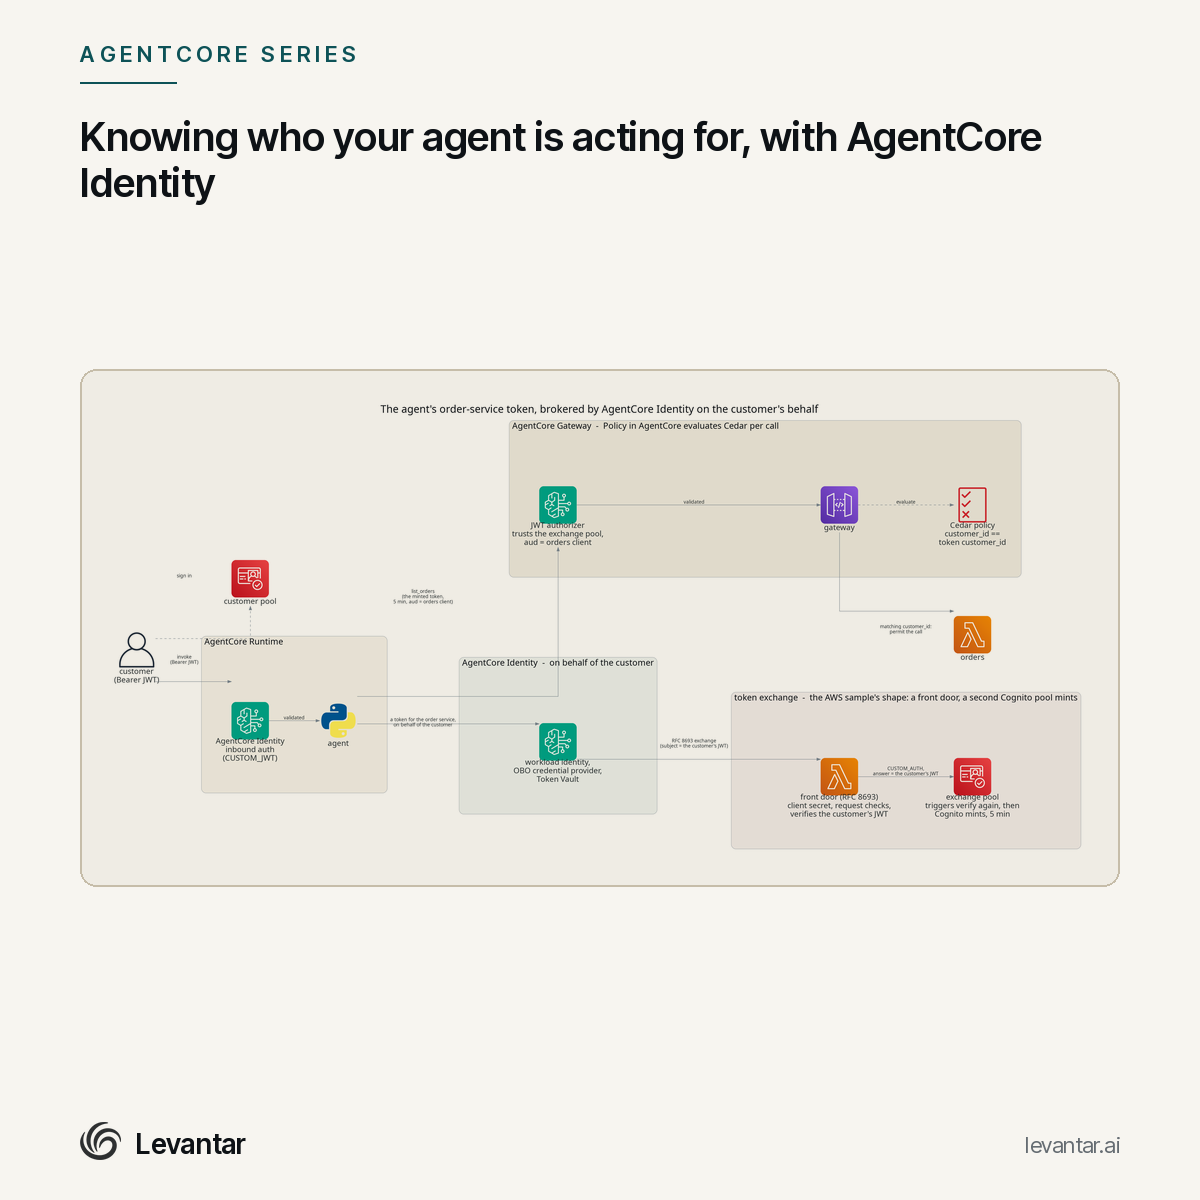
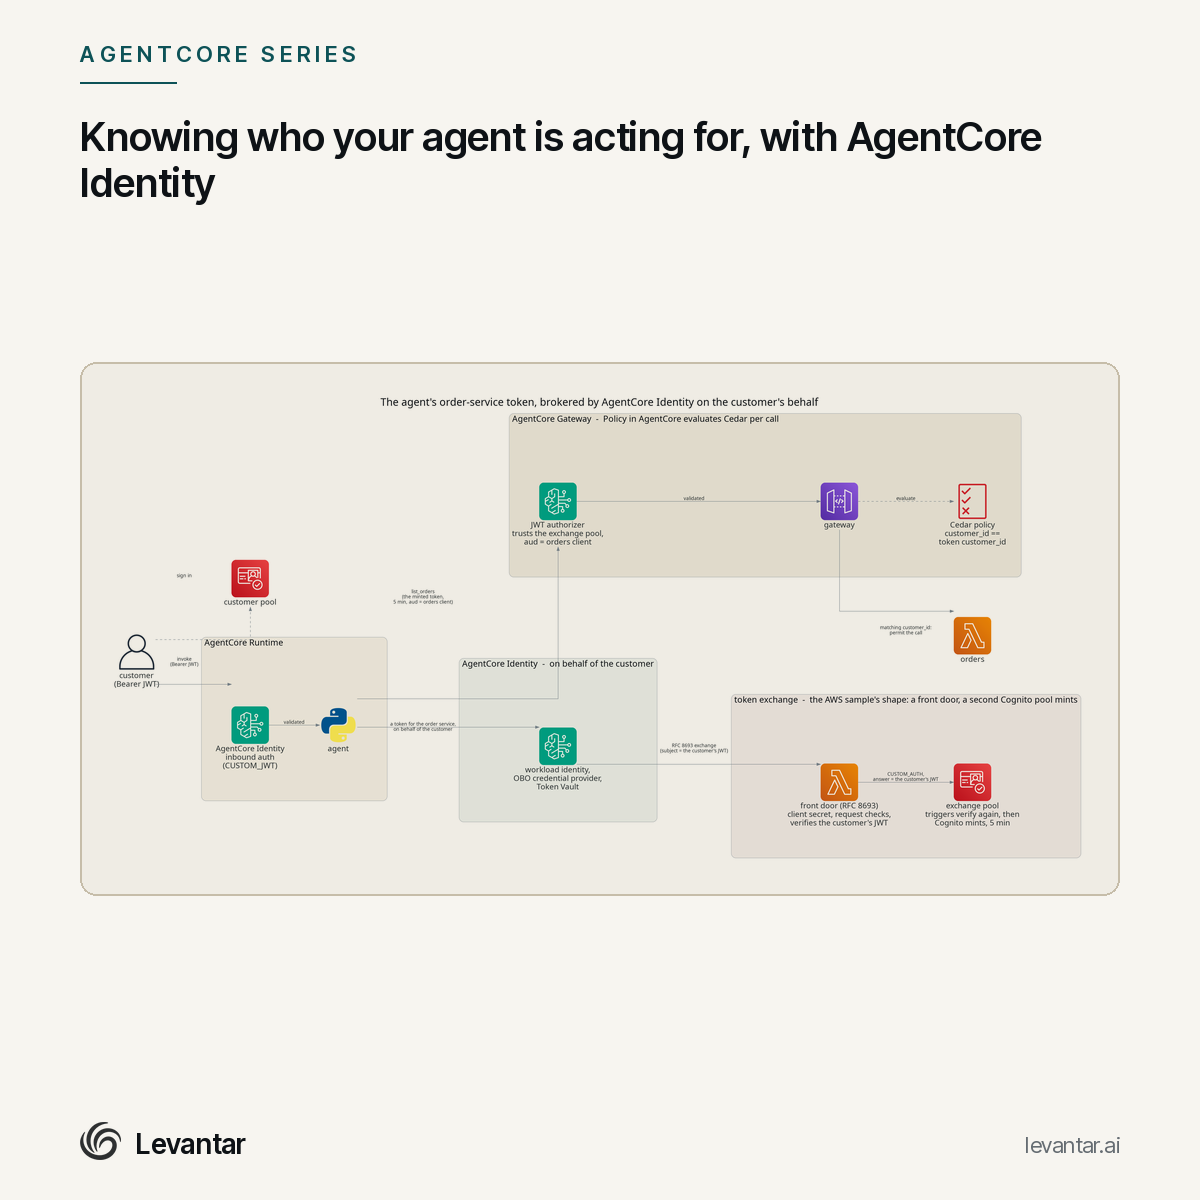
fix: stop label bleed in the post 05 social cards (#68)
The social cards re-render the architecture diagram with DIAGRAM_FONT_BOOST=8
for feed legibility, and the boost-aware node_height helper was not reserving
enough headroom per line, so the denser exchange-pool diagram's three-line
labels (front door, exchange pool, Token Vault, the two authorizer/policy
nodes) bled out of their boxes onto the cluster borders. Widen the per-line
boost allowance so the boxes hold their labels; identity at boost 0, so every
post's architecture.png is unchanged. Both post 05 cards re-rendered and
checked. Adds the post's LinkedIn copy.

Claude-Session: https://claude.ai/code/session_01YST1ZuMsoENqyeTYghbwr4

diff --git a/scripts/diagram_sizing.py b/scripts/diagram_sizing.py
@@ -29,7 +29,7 @@ import os
 BOOST = int(os.environ.get("DIAGRAM_FONT_BOOST", "0"))
 
 # Roughly the line box a point of font size occupies, in points.
-_LINE_RATIO = 1.4
+_LINE_RATIO = 2.1  # was 1.4; the extra headroom keeps 3-line labels inside their boxes at the boost, where 1.4 left them bleeding onto the cluster border
 
 
 def fs(size):

diff --git a/agentcore/05-identity/LINKEDIN-POST.md b/agentcore/05-identity/LINKEDIN-POST.md
@@ -1,0 +1,32 @@
+# LinkedIn post — AgentCore Identity (post 05)
+
+Live: https://levantar.ai/insights/agentcore-05-identity.html
+Native image: social-square.png (1200x1200). Or share the URL and the
+og:image renders the 1200x630 card. The demo video uploads natively too.
+
+---
+
+Post five of the AgentCore series. The same order-support agent, now given
+an identity at both ends.
+
+Inbound, AgentCore Identity validates the customer's sign-in token, so the
+agent knows who is asking.
+
+Outbound is the harder half. The agent never relays the customer's token to
+the order service. It asks AgentCore Identity for a token minted for that
+customer on their behalf, and a Cedar policy at the gateway refuses any call
+for anyone else. The customer's own token gets a 403 there.
+
+Cognito's token endpoint does not offer the exchange grant this needs, so the
+exchange is built the way AWS's own sample builds it, a second Cognito pool
+that mints, with an audience, a confidential client and a five-minute token
+added on top.
+
+This one is a real step up in moving parts, and the post is honest about what
+each still does not guarantee. In production the exchange belongs to a managed
+IdP, not a pool you run.
+
+The full walkthrough and the code are here.
+https://levantar.ai/insights/agentcore-05-identity.html
+
+#AgentCore #AWS #AI #Identity
